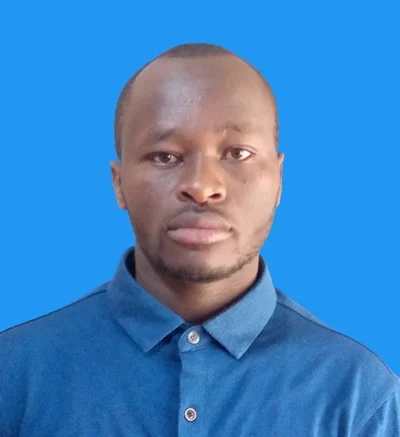
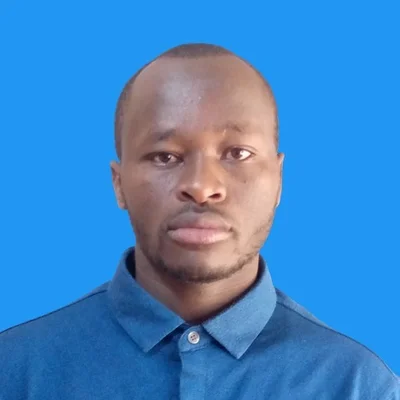
Blog: crop author photos to square
Eight author photos weren't square (Ashlynn Pericacho 400x600, Anita Ihuman,
Hemanta Sundaray, Matt Gonzales, Joydip Kanjilal, Joey Davidson, Joseph
Chege, Nwani Victory) and got squashed into the round avatar.

The migration now has Sanity crop author photos to a 400px square anchored
at the top, with hand-picked focal points for the two photos where the face
sits lower in the frame. avatar images also get object-fit: cover so a
non-square photo added later is cropped instead of squashed.

diff --git a/src/styles/blog.scss b/src/styles/blog.scss
@@ -19,3 +19,11 @@
 .blog-authors-posts-page h1[class*='authorName']::before {
   display: none;
 }
+
+// Author photos are cropped square by the migration, but a non-square photo
+// added later would be squashed into the circle. Crop it in the browser instead.
+.avatar__photo,
+img[class*='authorImage'],
+img[class*='avatar_'] {
+  object-fit: cover;
+}
